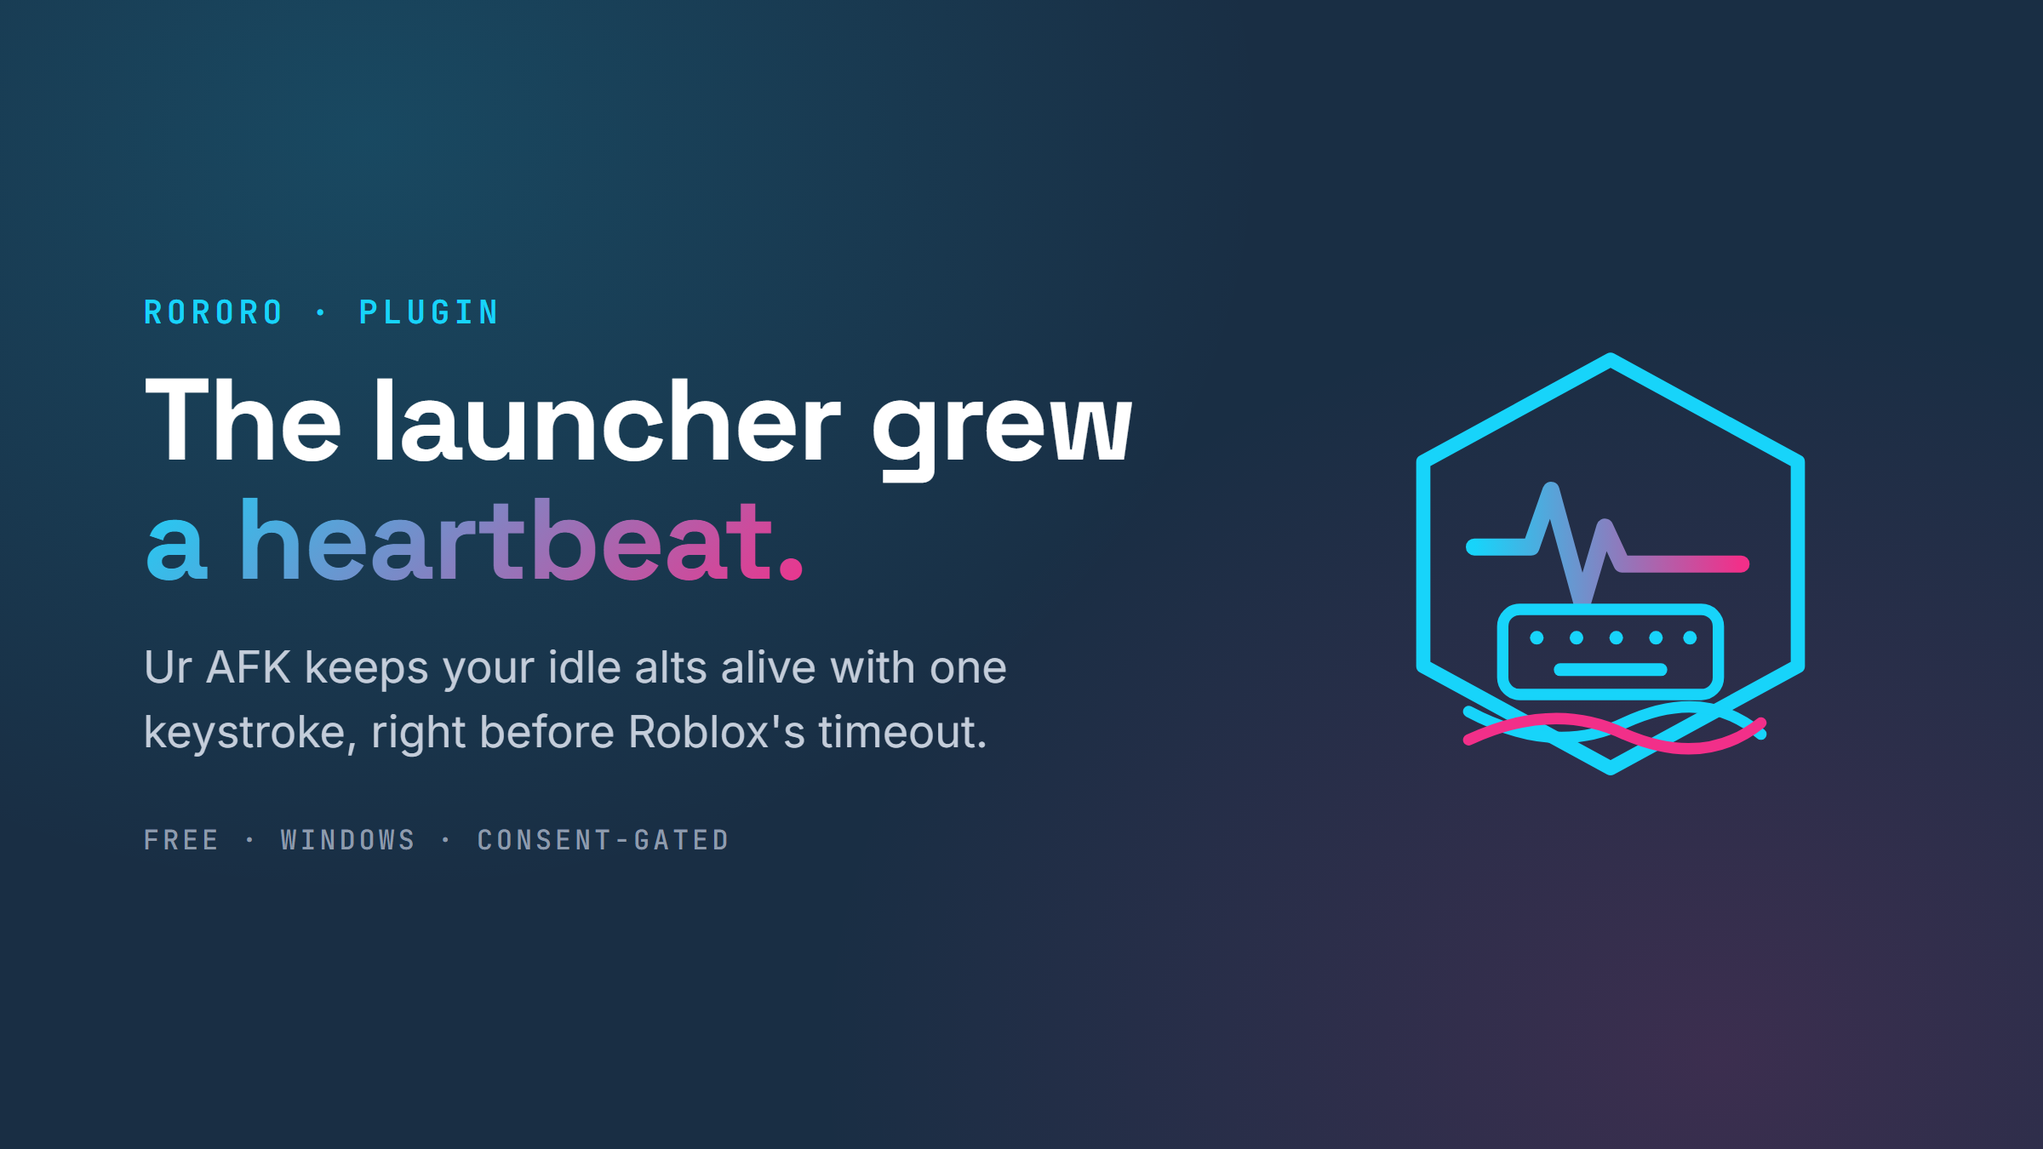
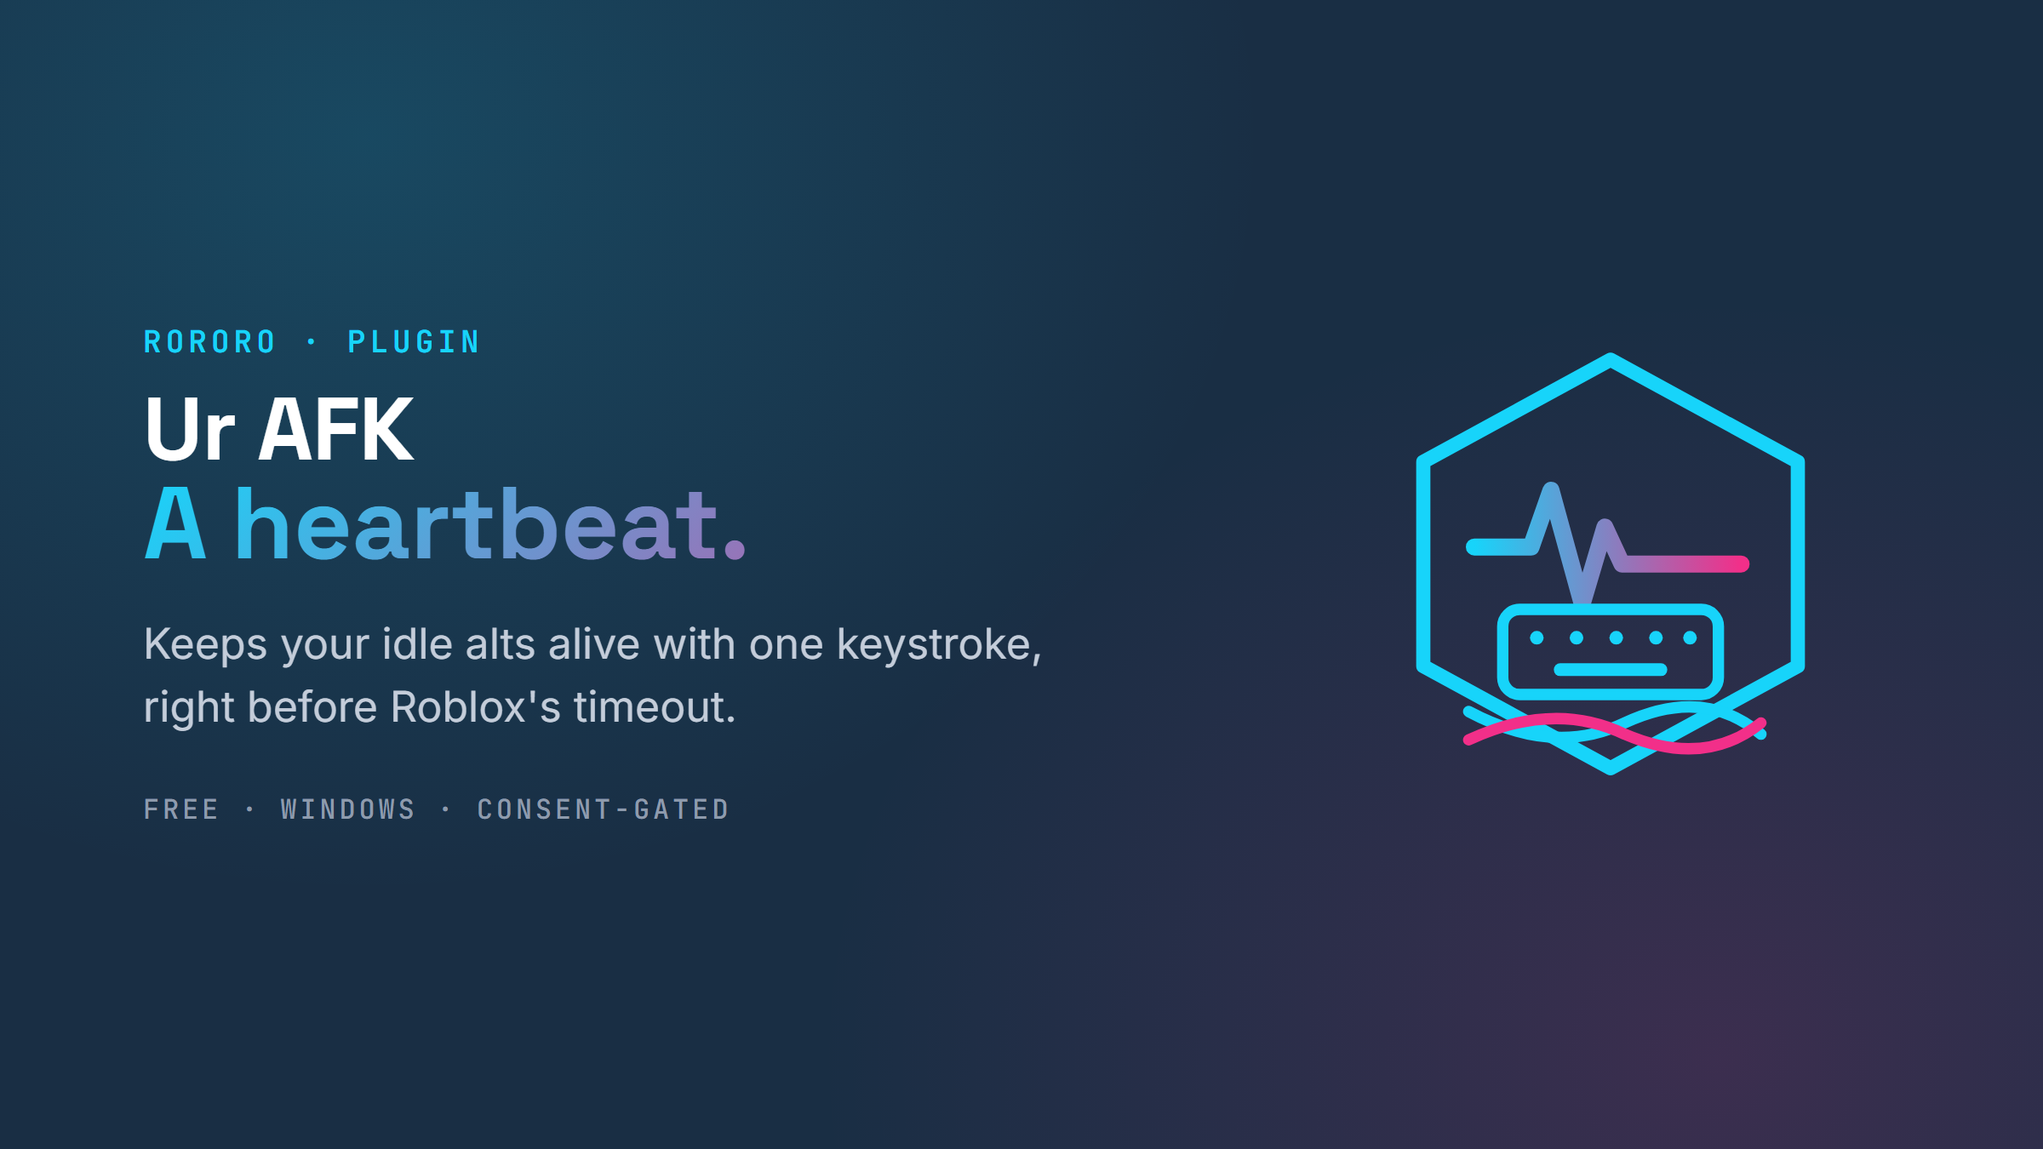
assets(social): RoRoRo Ur family — 5:2 header + per-plugin cards + X article
Add the 5:2 family header (RoRoRo Ur Plugins, 3000x1200) for the X
article cover. Rework the three body cards from the repeated 'The launcher
grew ___' framing to per-plugin identity cards (name + role word: Ur OCR/
Eyes, Ur Task/Hands, Ur AFK/A heartbeat) so they don't echo when used
together in-body. Add the X article (md + rich-paste html) in Este's
first-person building-in-public voice. Render script updated.

Changed region(s): [[0.0625, 0.2489, 0.5625, 0.6533], [0.0625, 0.6844, 0.3438, 0.7467]]

diff --git a/docs/announcements/2026-07-03-rororo-family/x-article.html b/docs/announcements/2026-07-03-rororo-family/x-article.html
@@ -1,0 +1,57 @@
+<!doctype html>
+<html lang="en">
+<head>
+<meta charset="utf-8">
+<title>RoRoRo grew eyes, hands, and a heartbeat — copy/paste source for X Articles</title>
+<style>
+  body { max-width: 720px; margin: 40px auto; padding: 0 20px;
+         font: 17px/1.6 -apple-system, Segoe UI, Roboto, sans-serif; color: #1a1a1a; }
+  h1 { font-size: 30px; line-height: 1.2; }
+  h2 { font-size: 22px; margin-top: 1.6em; }
+  p  { margin: 1em 0; }
+  .dek { font-style: italic; color: #555; }
+  .hint { background: #f4f4f4; border-left: 3px solid #999; padding: 8px 14px;
+          font-size: 14px; color: #555; margin-bottom: 28px; }
+</style>
+</head>
+<body>
+
+<p class="hint">To paste into X Articles with formatting: click anywhere in the article
+below, press Ctrl+A (select all), Ctrl+C (copy), then paste into the X Articles editor.
+The headings and bold carry over because you're copying rendered text, not markdown.
+Put "RoRoRo grew eyes, hands, and a heartbeat" in the title field and the italic line in the subtitle field.</p>
+
+<h1>RoRoRo grew eyes, hands, and a heartbeat</h1>
+
+<p class="dek">Two months ago RoRoRo was a Roblox multi-launcher you could recommend on camera. This week it became a platform: version 1.8 on the Microsoft Store, and three plugins that watch, act, and keep your alts alive. All local, all consent-gated.</p>
+
+<p>Two months ago I shipped RoRoRo with one promise: a Roblox multi-launcher you could hand a clan without a disclaimer. Packaged, signed, honest about what it does. That was a launcher. This week it grew into a platform. RoRoRo 1.8 is on the Microsoft Store, and it now has three plugins that turn a wall of idle alts into something that watches itself, does the work you recorded, and refuses to time out. Eyes, hands, and a heartbeat.</p>
+
+<p>The thing that makes them a family instead of three unrelated tools is one rule I carried over from the launcher: every capability a plugin uses is disclosed, opt-in, and local. A plugin tells you exactly what it wants to do, RoRoRo shows you that list on a consent sheet before a line of it runs, and nothing touches the network it wasn't already touching. That rule is the spine. Everything else hangs off it.</p>
+
+<h2>Hands</h2>
+
+<p><strong>Ur Task</strong> is the record-and-replay macro plugin, and it's the hands. Record a farming sequence once, play it on any alt, or a whole batch of them in order. The macros are portable now, so one recording runs across your entire roster. And it's window-aware: tile your Roblox windows however you like and the clicks still land where they should, because playback maps every event onto the target window wherever it sits.</p>
+
+<h2>Eyes</h2>
+
+<p><strong>Ur OCR</strong> is perception. Point it at a region of your screen, tell it what to watch for (a piece of text, a color), and when it matches, it fires a keybind. On its own that's a useful reflex. Wired to Ur Task, it fires a whole macro instead of a single key. A banner appears, the eyes see it, and the right sequence presses itself. Perception to action, and neither half leaves your PC.</p>
+
+<p>That last part is the whole reason this is a family and not a bundle. Ur OCR talks to Ur Task over a local pipe on your own machine, current-user only, gated on both ends. The eyes tell the hands what to do, natively, with no cloud round-trip. Each plugin multiplies the others instead of just sitting next to them.</p>
+
+<h2>Heartbeat</h2>
+
+<p><strong>Ur AFK</strong> is the simple one, on purpose. Roblox kicks an idle client after about twenty minutes, and if a stack of your alts idles out together they all reconnect together, which is exactly what trips the captcha wall. Ur AFK watches how long each account has gone untouched and, right before the timeout, taps a key to keep it alive, then hands your focus back. One key, ever, and you always see it coming. It's the plugin for the person installing their first one and reading their first consent sheet. It's also a good backup for the nights you forget to start a macro.</p>
+
+<h2>A ladder, not a pile</h2>
+
+<p>The three sort into a ladder. Ur AFK is the bottom rung: one toggle, one key, nothing to learn. Ur Task is the middle: record once, play anywhere. Ur OCR driving Ur Task is the top: build a perception-to-action loop and let it run. You start at the bottom and climb only as far as you want, and the same consent sheet, the same visible countdowns, the same abort keys, and the same permanent no on ever touching a captcha hold at every step.</p>
+
+<p>The launcher you could recommend on camera became a platform you can still recommend on camera. That was the only spec that mattered.</p>
+
+<p>Imagine Something Else.</p>
+
+<p>— Este</p>
+
+</body>
+</html>

diff --git a/docs/announcements/2026-07-03-rororo-family/render_kit.py b/docs/announcements/2026-07-03-rororo-family/render_kit.py
@@ -1,5 +1,6 @@
-"""Render the RoRoRo Ur family launch kit: transparent icons (256/512/1024)
-and X social cards (1200x675). Glyphs match the approved concept board."""
+"""Render the RoRoRo Ur family launch kit: transparent icons (256/512/1024),
+a 5:2 family header (1500x600), and per-plugin X body cards (1200x675).
+Glyphs match the approved concept board."""
 from pathlib import Path
 from playwright.sync_api import sync_playwright
 
@@ -35,70 +36,95 @@ AFK_GLYPH = (
     '<rect x="70" y="121" width="40" height="4.5" rx="2.25" fill="#17d4fa"/>'
 )
 
-ICONS = {
-    "ur-ocr":  (OCR_GLYPH, False),
-    "ur-task": (TASK_GLYPH, False),
-    "ur-afk":  (AFK_GLYPH, True),
-}
+ICONS = {"ur-ocr": (OCR_GLYPH, False), "ur-task": (TASK_GLYPH, False), "ur-afk": (AFK_GLYPH, True)}
 
-def icon_svg(glyph, horizontal, size):
+def icon_svg(glyph, horizontal, size, gid="G"):
+    g = glyph.replace("#G", "#"+gid) if gid != "G" else glyph
     return (f'<svg xmlns="http://www.w3.org/2000/svg" width="{size}" height="{size}" viewBox="0 0 180 180" fill="none">'
-            f'<defs>{grad("G", horizontal)}</defs>{HEX}{glyph}{SWOOSH}</svg>')
+            f'<defs>{grad(gid, horizontal)}</defs>{HEX}{g}{SWOOSH}</svg>')
 
 def icon_html(glyph, horizontal, size):
     return f'<!doctype html><html><head><style>*{{margin:0;padding:0}}html,body{{background:transparent}}</style></head><body>{icon_svg(glyph, horizontal, size)}</body></html>'
 
+FONTS = "@import url('https://fonts.googleapis.com/css2?family=Space+Grotesk:wght@400;600;700&family=JetBrains+Mono:wght@500;600&family=Inter:wght@400;500&display=swap');"
+FIELD = ("radial-gradient(80% 120% at 18% 12%, rgba(23,212,250,.16), transparent 55%),"
+         "radial-gradient(80% 120% at 84% 92%, rgba(242,47,137,.16), transparent 55%),#192e44")
+
+# ---- per-plugin body cards (no repeated "The launcher grew") ----
 CARDS = {
-    "ur-ocr":  ("eyes.",       "Ur OCR watches a region of your screen and fires a keybind, or a whole Ur Task macro, the moment it matches.", OCR_GLYPH, False),
-    "ur-task": ("hands.",      "Ur Task records a macro once and replays it on any alt. Window-aware, so your clicks land wherever the windows sit.", TASK_GLYPH, False),
-    "ur-afk":  ("a heartbeat.", "Ur AFK keeps your idle alts alive with one keystroke, right before Roblox's timeout.", AFK_GLYPH, True),
+    "ur-ocr":  ("Ur OCR",  "Eyes.",        "Watches a region of your screen and fires a keybind, or a whole Ur Task macro, the moment it matches.", OCR_GLYPH, False),
+    "ur-task": ("Ur Task", "Hands.",       "Records a macro once and replays it on any alt. Window-aware, so your clicks land wherever the windows sit.", TASK_GLYPH, False),
+    "ur-afk":  ("Ur AFK",  "A heartbeat.", "Keeps your idle alts alive with one keystroke, right before Roblox's timeout.", AFK_GLYPH, True),
 }
 
-def card_html(word, body, glyph, horizontal):
-    big = icon_svg(glyph, horizontal, 300).replace('id="G"', 'id="GC"').replace('url(#G)', 'url(#GC)')
-    return f'''<!doctype html><html><head>
-<style>
-@import url('https://fonts.googleapis.com/css2?family=Space+Grotesk:wght@400;600;700&family=JetBrains+Mono:wght@500;600&family=Inter:wght@400;500&display=swap');
+def card_html(name, role, body, glyph, horizontal):
+    big = icon_svg(glyph, horizontal, 300, gid="GC")
+    return f'''<!doctype html><html><head><style>{FONTS}
 *{{margin:0;padding:0;box-sizing:border-box}}
-body{{width:1200px;height:675px;overflow:hidden;font-family:'Inter',sans-serif;
-  background:radial-gradient(80% 120% at 18% 12%, rgba(23,212,250,.16), transparent 55%),
-             radial-gradient(80% 120% at 84% 92%, rgba(242,47,137,.16), transparent 55%),#192e44;
-  display:flex;align-items:center;gap:56px;padding:0 84px;}}
+body{{width:1200px;height:675px;overflow:hidden;font-family:'Inter',sans-serif;background:{FIELD};display:flex;align-items:center;gap:56px;padding:0 84px}}
 .copy{{flex:1}}
-.kicker{{font-family:'JetBrains Mono',monospace;font-size:19px;letter-spacing:.14em;color:#17d4fa;text-transform:uppercase;font-weight:600}}
-h3{{font-family:'Space Grotesk',sans-serif;font-weight:700;font-size:68px;letter-spacing:-.02em;margin:16px 0 22px;line-height:1.02;color:#fff}}
-.grad{{background:linear-gradient(135deg,#17d4fa,#f22f89);-webkit-background-clip:text;background-clip:text;color:transparent}}
-p{{color:#c4cdda;font-size:26px;line-height:1.45;max-width:560px}}
-.foot{{margin-top:34px;font-family:'JetBrains Mono',monospace;font-size:16px;letter-spacing:.12em;color:#8e9bad;text-transform:uppercase}}
+.kicker{{font-family:'JetBrains Mono',monospace;font-size:18px;letter-spacing:.14em;color:#17d4fa;text-transform:uppercase;font-weight:600}}
+h3{{font-family:'Space Grotesk',sans-serif;font-weight:700;letter-spacing:-.02em;margin:14px 0 22px;line-height:1.0}}
+.name{{font-size:52px;color:#fff;display:block}}
+.role{{font-size:60px;background:linear-gradient(135deg,#17d4fa,#f22f89);-webkit-background-clip:text;background-clip:text;color:transparent;display:block}}
+p{{color:#c4cdda;font-size:25px;line-height:1.45;max-width:560px}}
+.foot{{margin-top:32px;font-family:'JetBrains Mono',monospace;font-size:16px;letter-spacing:.12em;color:#8e9bad;text-transform:uppercase}}
 .art{{width:340px;display:flex;align-items:center;justify-content:center}}
-</style></head>
-<body>
+</style></head><body>
   <div class="copy">
     <div class="kicker">RoRoRo · plugin</div>
-    <h3>The launcher grew<br><span class="grad">{word}</span></h3>
+    <h3><span class="name">{name}</span><span class="role">{role}</span></h3>
     <p>{body}</p>
     <div class="foot">Free · Windows · consent-gated</div>
   </div>
   <div class="art">{big}</div>
 </body></html>'''
 
+# ---- 5:2 family header (1500x600) ----
+def header_html():
+    def g(glyph, horiz, gid):
+        return icon_svg(glyph, horiz, 150, gid=gid)
+    ocr = g(OCR_GLYPH, False, "GH1"); task = g(TASK_GLYPH, False, "GH2"); afk = g(AFK_GLYPH, True, "GH3")
+    return f'''<!doctype html><html><head><style>{FONTS}
+*{{margin:0;padding:0;box-sizing:border-box}}
+body{{width:1500px;height:600px;overflow:hidden;font-family:'Inter',sans-serif;background:{FIELD};display:flex;align-items:center;padding:0 80px;gap:40px}}
+.copy{{flex:1}}
+.kicker{{font-family:'JetBrains Mono',monospace;font-size:20px;letter-spacing:.16em;color:#17d4fa;text-transform:uppercase;font-weight:600}}
+h1{{font-family:'Space Grotesk',sans-serif;font-weight:700;font-size:82px;letter-spacing:-.02em;line-height:1.0;color:#fff;margin:18px 0 20px}}
+h1 .g{{background:linear-gradient(135deg,#17d4fa,#f22f89);-webkit-background-clip:text;background-clip:text;color:transparent}}
+.sub{{color:#c4cdda;font-size:27px;line-height:1.4;max-width:660px}}
+.tag{{margin-top:30px;font-family:'JetBrains Mono',monospace;font-size:16px;letter-spacing:.14em;color:#8e9bad;text-transform:uppercase}}
+.icons{{display:flex;flex-direction:column;gap:18px}}
+.icons .row{{display:flex;align-items:center;gap:18px}}
+.icons .lbl{{font-family:'JetBrains Mono',monospace;font-size:15px;letter-spacing:.12em;color:#8e9bad;text-transform:uppercase;width:110px}}
+</style></head><body>
+  <div class="copy">
+    <div class="kicker">RoRoRo · Microsoft Store</div>
+    <h1>RoRoRo <span class="g">Ur Plugins</span></h1>
+    <div class="sub">Eyes, hands, and a heartbeat for your alts. Three plugins, one consent-gated family.</div>
+    <div class="tag">Imagine Something Else.</div>
+  </div>
+  <div class="icons">
+    <div class="row">{ocr}<span class="lbl">OCR · eyes</span></div>
+    <div class="row">{task}<span class="lbl">Task · hands</span></div>
+    <div class="row">{afk}<span class="lbl">AFK · heartbeat</span></div>
+  </div>
+</body></html>'''
+
 with sync_playwright() as p:
     b = p.chromium.launch()
-    # icons — transparent
     for name, (glyph, horiz) in ICONS.items():
         for size in (256, 512, 1024):
             pg = b.new_page(viewport={"width": size, "height": size})
-            pg.set_content(icon_html(glyph, horiz, size))
-            pg.wait_for_timeout(150)
-            pg.screenshot(path=str(OUT / f"{name}-{size}.png"), omit_background=True)
-            pg.close()
-    # cards — 1200x675 dark
-    for name, (word, body, glyph, horiz) in CARDS.items():
+            pg.set_content(icon_html(glyph, horiz, size)); pg.wait_for_timeout(150)
+            pg.screenshot(path=str(OUT / f"{name}-{size}.png"), omit_background=True); pg.close()
+    for name, (nm, role, body, glyph, horiz) in CARDS.items():
         pg = b.new_page(viewport={"width": 1200, "height": 675}, device_scale_factor=2)
-        pg.set_content(card_html(word, body, glyph, horiz))
-        pg.wait_for_timeout(1200)
-        pg.screenshot(path=str(OUT / f"card-{name}.png"))
-        pg.close()
+        pg.set_content(card_html(nm, role, body, glyph, horiz)); pg.wait_for_timeout(1200)
+        pg.screenshot(path=str(OUT / f"card-{name}.png")); pg.close()
+    pg = b.new_page(viewport={"width": 1500, "height": 600}, device_scale_factor=2)
+    pg.set_content(header_html()); pg.wait_for_timeout(1200)
+    pg.screenshot(path=str(OUT / "header-ur-plugins-1500x600.png")); pg.close()
     b.close()
 
 for f in sorted(OUT.iterdir()):

diff --git a/docs/announcements/2026-07-03-rororo-family/x-article.md b/docs/announcements/2026-07-03-rororo-family/x-article.md
@@ -1,0 +1,31 @@
+# RoRoRo grew eyes, hands, and a heartbeat
+
+*Two months ago RoRoRo was a Roblox multi-launcher you could recommend on camera. This week it became a platform: version 1.8 on the Microsoft Store, and three plugins that watch, act, and keep your alts alive. All local, all consent-gated.*
+
+Two months ago I shipped RoRoRo with one promise: a Roblox multi-launcher you could hand a clan without a disclaimer. Packaged, signed, honest about what it does. That was a launcher. This week it grew into a platform. RoRoRo 1.8 is on the Microsoft Store, and it now has three plugins that turn a wall of idle alts into something that watches itself, does the work you recorded, and refuses to time out. Eyes, hands, and a heartbeat.
+
+The thing that makes them a family instead of three unrelated tools is one rule I carried over from the launcher: every capability a plugin uses is disclosed, opt-in, and local. A plugin tells you exactly what it wants to do, RoRoRo shows you that list on a consent sheet before a line of it runs, and nothing touches the network it wasn't already touching. That rule is the spine. Everything else hangs off it.
+
+## Hands
+
+**Ur Task** is the record-and-replay macro plugin, and it's the hands. Record a farming sequence once, play it on any alt, or a whole batch of them in order. The macros are portable now, so one recording runs across your entire roster. And it's window-aware: tile your Roblox windows however you like and the clicks still land where they should, because playback maps every event onto the target window wherever it sits.
+
+## Eyes
+
+**Ur OCR** is perception. Point it at a region of your screen, tell it what to watch for (a piece of text, a color), and when it matches, it fires a keybind. On its own that's a useful reflex. Wired to Ur Task, it fires a whole macro instead of a single key. A banner appears, the eyes see it, and the right sequence presses itself. Perception to action, and neither half leaves your PC.
+
+That last part is the whole reason this is a family and not a bundle. Ur OCR talks to Ur Task over a local pipe on your own machine, current-user only, gated on both ends. The eyes tell the hands what to do, natively, with no cloud round-trip. Each plugin multiplies the others instead of just sitting next to them.
+
+## Heartbeat
+
+**Ur AFK** is the simple one, on purpose. Roblox kicks an idle client after about twenty minutes, and if a stack of your alts idles out together they all reconnect together, which is exactly what trips the captcha wall. Ur AFK watches how long each account has gone untouched and, right before the timeout, taps a key to keep it alive, then hands your focus back. One key, ever, and you always see it coming. It's the plugin for the person installing their first one and reading their first consent sheet. It's also a good backup for the nights you forget to start a macro.
+
+## A ladder, not a pile
+
+The three sort into a ladder. Ur AFK is the bottom rung: one toggle, one key, nothing to learn. Ur Task is the middle: record once, play anywhere. Ur OCR driving Ur Task is the top: build a perception-to-action loop and let it run. You start at the bottom and climb only as far as you want, and the same consent sheet, the same visible countdowns, the same abort keys, and the same permanent no on ever touching a captcha hold at every step.
+
+The launcher you could recommend on camera became a platform you can still recommend on camera. That was the only spec that mattered.
+
+Imagine Something Else.
+
+— Este

diff --git a/docs/announcements/2026-07-03-rororo-family/README.md b/docs/announcements/2026-07-03-rororo-family/README.md
@@ -2,9 +2,13 @@
 
 Social/X assets for the RoRoRo plugin-family launch (RoRoRo 1.8 + the three Ur plugins). Pairs with the Field Note `content/stories/2026-07-03-rororo-grew-a-family.md`.
 
+## Header
+
+`header-ur-plugins-1500x600.png` — 3000x1200 (**5:2**), the family header for the X article's cover. "RoRoRo Ur Plugins", the eyes/hands/heartbeat line, and the three icons labelled OCR/Task/AFK.
+
 ## Cards
 
-`cards/card-ur-ocr.png`, `cards/card-ur-task.png`, `cards/card-ur-afk.png` — 1200x675 (X summary_large_image), navy field, cyan/magenta. Each runs the "The launcher grew ___" line: eyes (OCR), hands (Task), a heartbeat (AFK).
+`cards/card-ur-ocr.png`, `cards/card-ur-task.png`, `cards/card-ur-afk.png` — 1200x675 (X summary_large_image), navy field, cyan/magenta. **Per-plugin identity cards** for the article body: each leads with the plugin name and its role word (Ur OCR / *Eyes.*, Ur Task / *Hands.*, Ur AFK / *A heartbeat.*) plus a one-liner. The family framing lives in the header, so the cards don't repeat it.
 
 ## Icons
 
@@ -20,8 +24,8 @@ All three share the flat-top hexagon, cyan stroke, and the cyan+magenta swoosh a
 
 `render_kit.py` (needs `playwright` Python) re-renders every icon (256/512/1024, transparent) and card (1200x675) from the inline SVG glyphs. Run it from this directory:
 
-```
+```bash
 python render_kit.py
 ```
 
-Output lands in `out/`. The SVG glyph source is inline in the script — edit there, not the PNGs.
+Output lands in `out/`. The SVG glyph source is inline in the script; edit there, not the PNGs. (Header render is 3000x1200 at device-scale 2; cards are 2400x1350; icons are transparent.)
